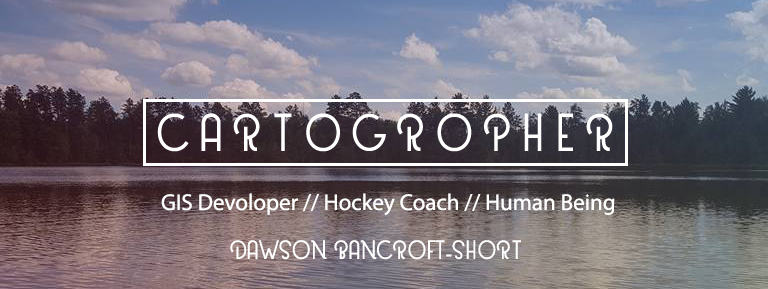
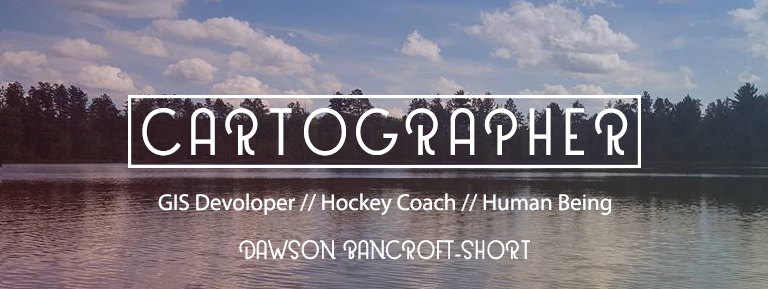
Font fix

diff --git a/assets/AboutMe/index.html b/assets/AboutMe/index.html
@@ -10,18 +10,17 @@
 
 	<meta name="description" content="Responsive Header Nav">
 	<meta name="keywords" content="maps, cartography, Dawson, Dawson Bancroft-Short, GIS, Developer"/>
-
+	<meta name="author" content="Treehouse">
 	<meta name="viewport" content="width=device-width; initial-scale=1; maximum-scale=1">
 
 	<!--put your Bootstrap stylesheet links above style.css-->
-	<link rel="stylesheet" href="lib/bootstrap/css/bootstrap.min.css">
+	<link rel="stylesheet" href="../../lib/bootstrap/css/bootstrap.min.css">
 
 		<link rel="stylesheet" href="../../css/styles.css">
-		<link rel="stylesheet" href="contactForm/custom.css">
 
 	<!--put your external script links here-->
-	<script type="text/javascript" src="lib/jquery/jquery.min.js"></script>
-	<script type="text/javascript" src="lib/bootstrap/js/bootstrap.min.js"></script>
+	<script type="text/javascript" src="../../lib/jquery/jquery.min.js"></script>
+	<script type="text/javascript" src="../../lib/bootstrap/js/bootstrap.min.js"></script>
 
 	<!--[if IE]> <script src="http://html5shiv.googlecode.com/svn/trunk/html5.js"></script><![endif]-->
 

diff --git a/css/styles.css b/css/styles.css
@@ -251,5 +251,5 @@ p {
 
 @font-face {
 	font-family: bicycle;
-	src: url(css/fonts/bicycle/bicycle-regular2.otf);
+	src: url(fonts/bicycle/bicycle-regular2.otf);
 }
